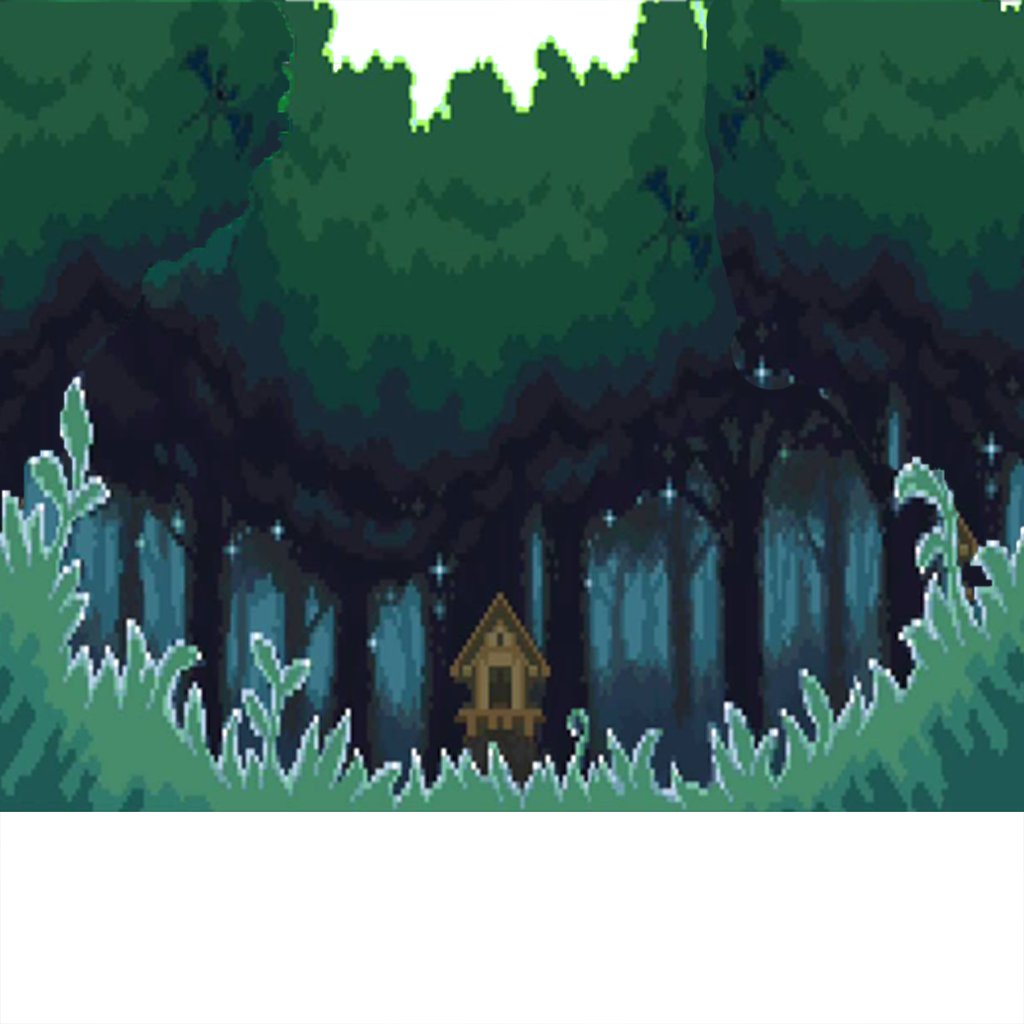
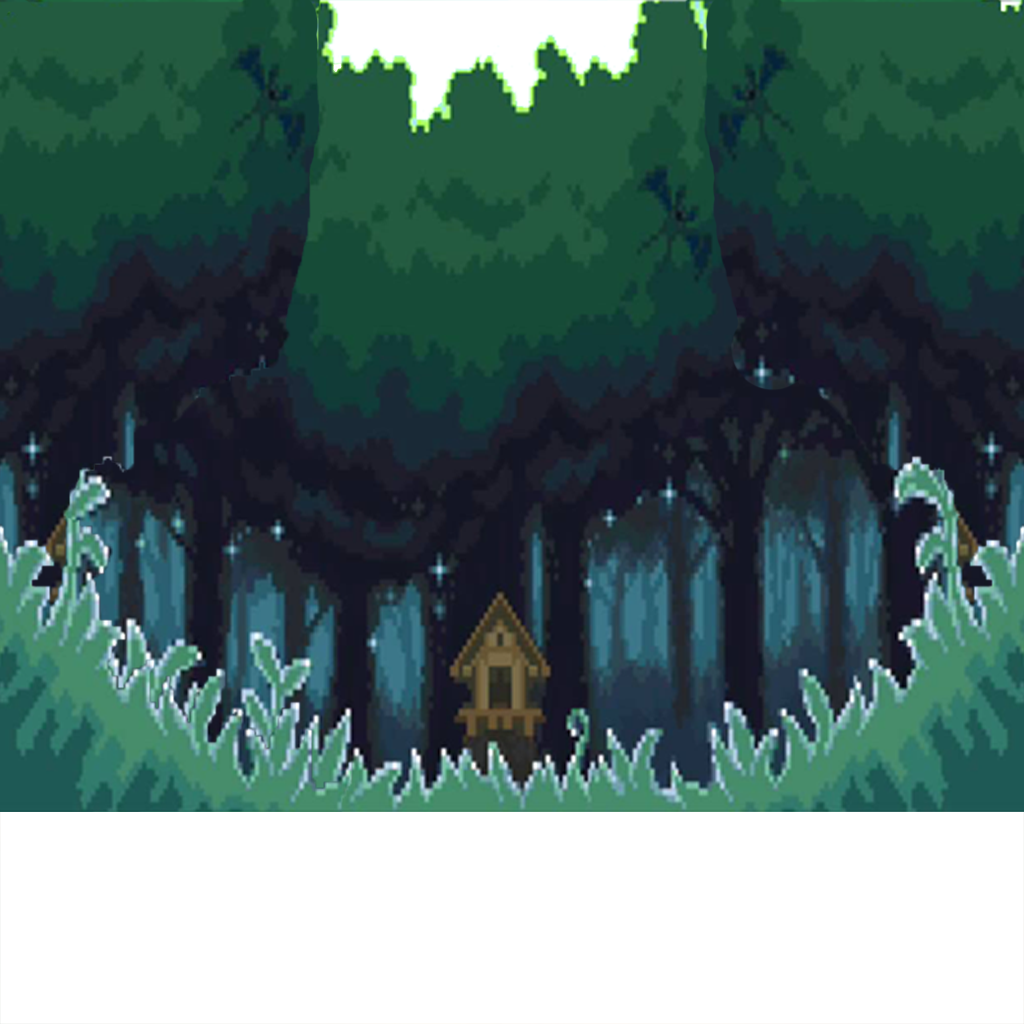
Added smart-ish sprites, random locations

diff --git a/src/Classes/project5.cpp b/src/Classes/project5.cpp
@@ -45,11 +45,25 @@ bool Project5::init() {
 }
 
 void Project5::generatePokemon() {
- 
+    
+    
+    srand(time(NULL));
+    int randNumx = rand()%(1500-100 + 1) + 100;
+    int randNumx2 = rand()%(1500-100 + 1) + 100;
+    int randNumx3 = rand()%(1500-100 + 1) + 100;
+    
+    int randNumy = rand()%(150-50 + 1) + 50;
+    int randNumy2 = rand()%(150-50 + 1) + 50;
+    int randNumy3 = rand()%(150-50 + 1) + 50;
+    
+    
+
+  
     MySprite *arcanineSprite;
     MySprite *moltresSprite;
     MySprite *articunoSprite;
     MySprite *dragoniteSprite;
+
    // MySprite *articunoSmart;
     
     MySprite *trainerSprite =
@@ -59,11 +73,11 @@ void Project5::generatePokemon() {
 
     // Case 1
     arcanineSprite =
-    new PokemonSprite("arcanine", 2, cocos2d::Point(1024, 50));
+    new PokemonSprite("arcanine", 2, cocos2d::Point(randNumx2, randNumy2));
     sprites.push_back(arcanineSprite);
     addChild(arcanineSprite->getSprite());
     moltresSprite =
-    new PokemonSprite("moltres", 2, cocos2d::Point(1024, 100));
+    new PokemonSprite("moltres", 2, cocos2d::Point(randNumx3, randNumy3));
     sprites.push_back(moltresSprite);
     addChild(moltresSprite->getSprite());
     
@@ -74,9 +88,10 @@ void Project5::generatePokemon() {
     addChild(articunoSprite->getSprite(),0);
 
     dragoniteSprite =
-    new PokemonSprite("dragonite", 2, cocos2d::Point(1075, 50));
+    new PokemonSprite("dragonite", 2, cocos2d::Point(randNumx, randNumy));
     sprites.push_back(dragoniteSprite);
     addChild(dragoniteSprite->getSprite());
+
 
 }
 
